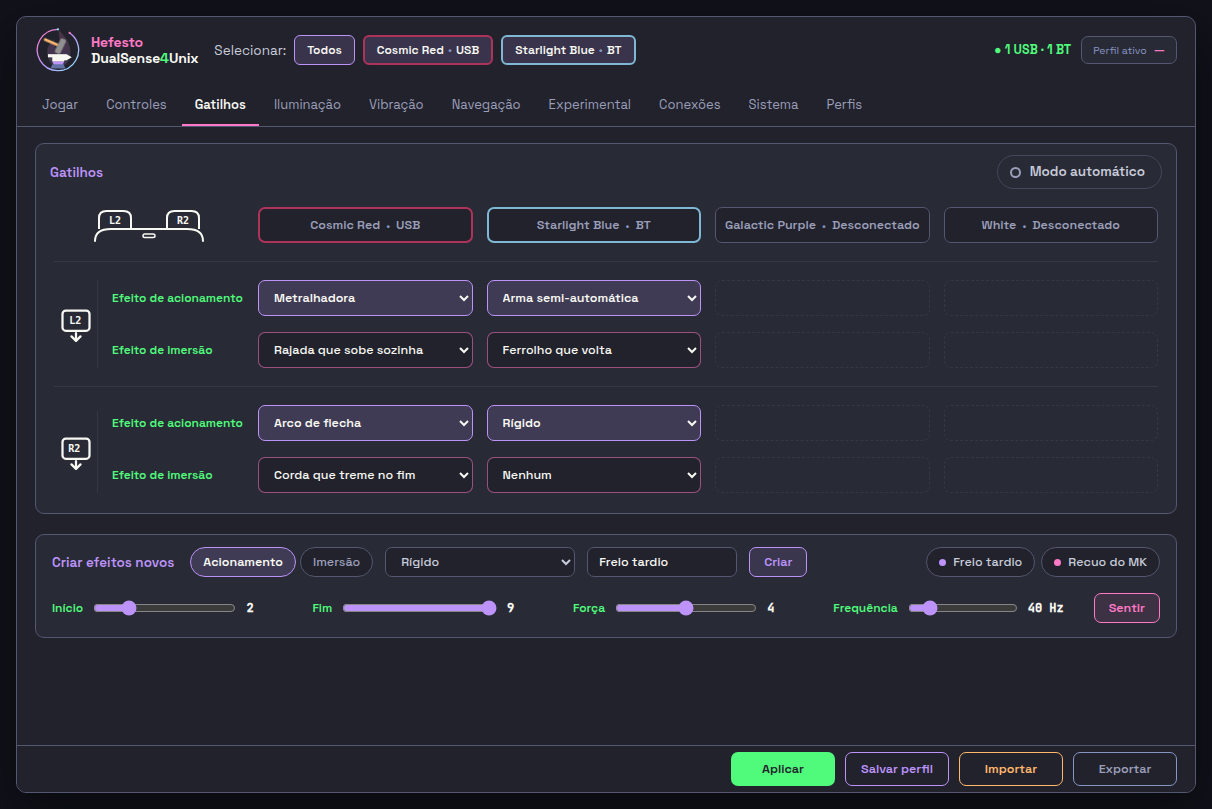
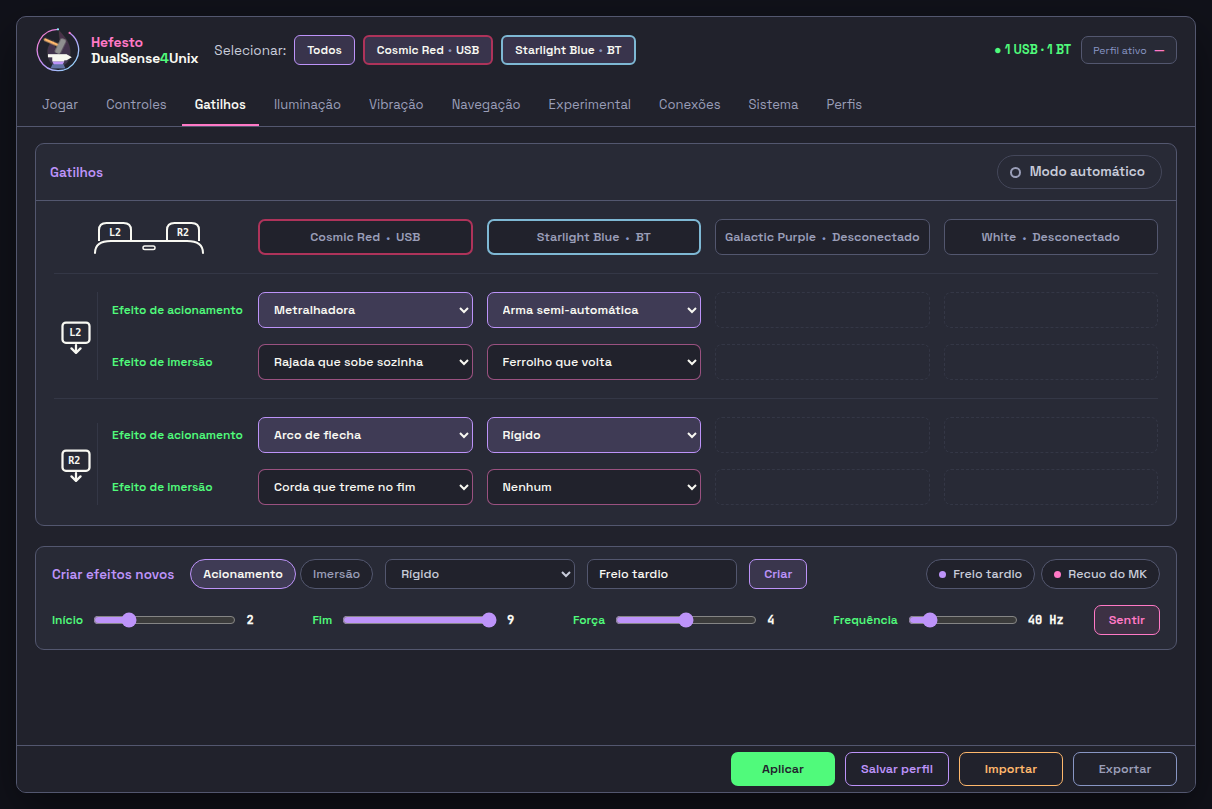
docs(volta): a caixa sonora centralizada, a linha sob Gatilhos e o glifo verde no lugar de Localizado

diff --git a/docs/research/2026-10-12-a-volta/paginas/todo-das-abas/todo/07-lancadores.html b/docs/research/2026-10-12-a-volta/paginas/todo-das-abas/todo/07-lancadores.html
@@ -2247,7 +2247,7 @@ button[data-dica],a[data-dica],select[data-dica],input[data-dica],[role="button"
               <span class="ext-faz" data-todo="25">Jogos do Kyty com gatilhos, luz e vibração do controle</span>
             </div>
             <div class="ext-para"><span class="ext-rot">Para</span>Todos</div>
-            <div class="ext-estado"><span class="bol-ok">●</span>Kyty localizado</div>
+            <div class="ext-estado" data-dica="O Kyty foi achado nesta máquina"><span class="lanc-selo localizado" aria-label="Localizado">✓</span>Kyty</div>
             <span class="nj-tog ligado" data-gesto="ligar-modificacao" data-v="kyty" data-dica="Liga ou desliga esta extensão"><span class="pino"></span><span class="txt">Ligada</span></span>
             <a class="ext-conf" href="#kyty" data-gesto="configurar-modificacao" data-v="kyty" data-dica="Configurações desta extensão"><svg viewBox="0 0 24 24" width="15" height="15" fill="none" stroke="currentColor" stroke-width="1.8" stroke-linecap="round" stroke-linejoin="round"><circle cx="12" cy="12" r="3"/><path d="M19.4 15a1.65 1.65 0 0 0 .33 1.82l.06.06a2 2 0 1 1-2.83 2.83l-.06-.06a1.65 1.65 0 0 0-1.82-.33 1.65 1.65 0 0 0-1 1.51V21a2 2 0 1 1-4 0v-.09A1.65 1.65 0 0 0 9 19.4a1.65 1.65 0 0 0-1.82.33l-.06.06a2 2 0 1 1-2.83-2.83l.06-.06A1.65 1.65 0 0 0 4.68 15a1.65 1.65 0 0 0-1.51-1H3a2 2 0 1 1 0-4h.09A1.65 1.65 0 0 0 4.6 9a1.65 1.65 0 0 0-.33-1.82l-.06-.06a2 2 0 1 1 2.83-2.83l.06.06A1.65 1.65 0 0 0 9 4.68a1.65 1.65 0 0 0 1-1.51V3a2 2 0 1 1 4 0v.09a1.65 1.65 0 0 0 1 1.51 1.65 1.65 0 0 0 1.82-.33l.06-.06a2 2 0 1 1 2.83 2.83l-.06.06A1.65 1.65 0 0 0 19.4 9a1.65 1.65 0 0 0 1.51 1H21a2 2 0 1 1 0 4h-.09a1.65 1.65 0 0 0-1.51 1z"/></svg></a>
             <button class="ext-mais" data-gesto="mais-da-modificacao" data-v="kyty" data-dica="Atualizar, abrir a pasta ou remover">⋮</button>
@@ -2278,7 +2278,7 @@ button[data-dica],a[data-dica],select[data-dica],input[data-dica],[role="button"
       <input class="abre" type="checkbox" id="cx7-2" checked>
       <div class="quadro-topo">
         <label class="quadro-titulo" for="cx7-2" data-todo="8" data-dica="O perfil casa pelo processo e pela janela do jogo">Lançadores</label>
-        <span class="conta" data-campo="lanc-conta" data-hef-alvo="html">2 localizados</span>
+        <span class="conta" data-campo="lanc-conta" data-hef-alvo="html"><span class="lanc-selo localizado" aria-label="Localizados">✓</span> 2</span>
       </div>
       <div class="quadro-corpo">
         <div class="acoes lanc-acoes">
@@ -2289,14 +2289,14 @@ button[data-dica],a[data-dica],select[data-dica],input[data-dica],[role="button"
           <div class="lf" data-lancador="steam">
             <span class="ext-ico lf-ico"><svg viewBox="0 0 24 24" width="16" height="16" fill="none" stroke="currentColor" stroke-width="1.7" stroke-linecap="round" stroke-linejoin="round"><rect x="4" y="4" width="7" height="7" rx="1.5"/><rect x="13" y="4" width="7" height="7" rx="1.5"/><rect x="4" y="13" width="7" height="7" rx="1.5"/><path d="M14.5 13.8v5.4l4.6-2.7z"/></svg></span>
             <span class="lf-nome"><span class="lanc-nome">Steam</span></span>
-            <span class="lanc-selo localizado com-imped" data-todo="7" data-dica="Sackboy: Steam Input ligado · RE Village: fora do Proton fixado">Localizado<i class="imped">2</i></span>
+            <span class="lanc-selo localizado com-imped" data-todo="7" data-dica="Localizado · Sackboy: Steam Input ligado · RE Village: fora do Proton fixado" aria-label="Localizado">✓<i class="imped">2</i></span>
             <span class="lanc-jogos">48 jogos</span>
             <span class="lf-botoes" data-todo="6"><button class="btn mini apagado" aria-disabled="true" data-gesto="identificar-lancador" data-v="steam">Identificar</button><a class="btn mini" href="#escolher-jogo" data-gesto="criar-perfil-para-um-jogo" data-v="steam">Criar perfis</a><a class="btn mini" href="#lanc-conf" data-gesto="configurar-lancador" data-v="steam">Configurar</a></span>
           </div>
           <div class="lf" data-lancador="kyty">
             <span class="ext-ico lf-ico"><svg viewBox="0 0 24 24" width="16" height="16" fill="none" stroke="currentColor" stroke-width="1.7" stroke-linecap="round" stroke-linejoin="round"><path d="M6 8h12a4 4 0 0 1 4 4v1a3 3 0 0 1-5.4 1.8L15 13H9l-1.6 1.8A3 3 0 0 1 2 13v-1a4 4 0 0 1 4-4z"/><path d="M7 10.5v3M5.5 12h3"/><circle cx="16" cy="11" r=".6" fill="currentColor"/><circle cx="18" cy="13" r=".6" fill="currentColor"/></svg></span>
             <span class="lf-nome"><span class="lanc-nome">Kyty</span></span>
-            <span class="lanc-selo localizado">Localizado</span>
+            <span class="lanc-selo localizado" data-dica="Localizado" aria-label="Localizado">✓</span>
             <span class="lanc-jogos">2 jogos</span>
             <span class="lf-botoes"><button class="btn mini apagado" aria-disabled="true" data-gesto="identificar-lancador" data-v="kyty">Identificar</button><a class="btn mini" href="#escolher-jogo" data-gesto="criar-perfil-para-um-jogo" data-v="kyty">Criar perfis</a><a class="btn mini" href="#kyty" data-gesto="configurar-lancador" data-v="kyty">Configurar</a></span>
           </div>

diff --git a/docs/research/2026-10-12-a-volta/paginas/todo-das-abas/todo/03-gatilhos.html b/docs/research/2026-10-12-a-volta/paginas/todo-das-abas/todo/03-gatilhos.html
@@ -430,7 +430,7 @@
   .quadro-topo{
     display:flex;align-items:center;gap:8px;padding:11px 14px 0;
   }
-  .quadro-titulo{font-size:13.5px;font-weight:600;color:var(--purple)}
+  .quadro-titulo{font-size:13.5px;font-weight:600;color:var(--purple)}  .quadro[data-modo-da-aba]>.quadro-topo{padding-bottom:11px;border-bottom:1px solid var(--linha)} /* a linha abaixo do título Gatilhos */
   /* o ícone "?" — onde TODO texto longo passa a morar (D4 + D-TUDO-QUE-EXPLICA-VIRA-DICA) */
   .ajuda{
     width:17px;height:17px;border-radius:50%;flex:0 0 17px;

diff --git a/docs/research/2026-10-12-a-volta/paginas/todo-das-abas/todo/02-controles.html b/docs/research/2026-10-12-a-volta/paginas/todo-das-abas/todo/02-controles.html
@@ -952,7 +952,7 @@
                  font:600 13.5px/1 'Space Grotesk',system-ui,sans-serif}
   /* as três rotas do alto-falante, uma por linha */
   .rota.tres{gap:3px}
-  .rota.tres button{height:22px;min-height:22px;white-space:nowrap;text-align:left;padding:0 9px}
+  .rota.tres button{height:22px;min-height:22px;white-space:nowrap;text-align:center;padding:0 9px}
   .chip-virtual>.sw{padding:4px 4px;gap:3px;line-height:13px;max-width:none}
   .moldura.gatilhos .rot{margin-bottom:10px}
   .quadro.estica{flex:1 1 auto}
